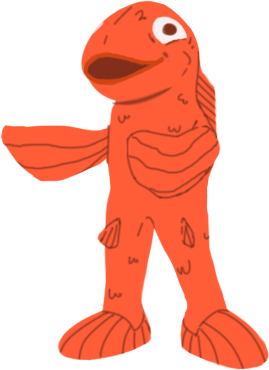
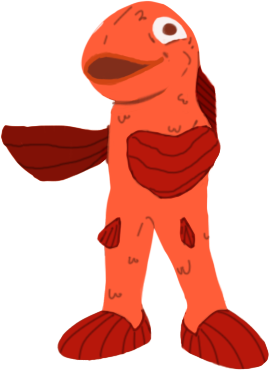
fixed modal scrolling bug in script.js, added updated styling to style.css, merged some div tags and updated with some new classes in index.html, updated mascot.png.

diff --git a/index.html b/index.html
@@ -18,7 +18,7 @@
     <!-- header/navbar -->
     <nav>
       <div class="nav-wrapper">
-        <a href="#" class="brand-logo">"Smarty Pants" Name Placeholder</a>
+        <a href="index.html" class="brand-logo center">"Smarty Pants" Name Placeholder</a>
         <ul id="nav-mobile" class="right hide-on-med-and-down">
           <li><a href="#">High Scores</a></li>
         </ul>
@@ -34,8 +34,8 @@
             <div class="card-content white-text">
               <span class="card-title">Welcome to our Trivia</span>
               <p>To play our trivia, you need to make some selections</p>
-              <button class="fact-button to-selections" id="to-selections">
-                <a class="waves-effect waves-light btn">Make my Selections</a>
+              <button class="fact-button to-selections btn waves-effect waves-light" id="to-selections">
+              Make my Selections
               </button>
             </div>
           </div>
@@ -60,12 +60,12 @@
                 class="validate"
                 required
               />
-              <p>Number of Questions</p>
+              <p class="subtext">Number of Questions</p>
               <!-- Categories drop down -->
               <select id="category">
                 <option value="0">Any Category</option>
               </select>
-              <p>Trivia Category</p>
+              <p class="subtext">Trivia Category</p>
               <!--Difficulty drop down -->
               <select id="difficulty">
                 <option value="0">Any Difficulty</option>
@@ -73,17 +73,17 @@
                 <option value="2">Medium</option>
                 <option value="3">Hard</option>
               </select>
-              <p>Trivia Difficulty</p>
+              <p class="subtext">Trivia Difficulty</p>
               <!-- Type of questions drop down -->
               <select id="question-type">
                 <option value="0">Any type of Question</option>
                 <option value="1">Multiple Choice</option>
                 <option value="2">True or False</option>
               </select>
-              <p>Type of Question</p>
+              <p class="subtext">Type of Question</p>
               <!-- start trivia button -->
-              <button id="quiz-start" class="start-button">
-                <a class="waves-effect waves-light btn">Start Trivia</a>
+              <button id="quiz-start" class="start-button waves-effect waves-light btn">
+                Start Trivia
               </button>
             </div>
           </div>
@@ -126,7 +126,7 @@
               <div id="modal1" class="modal">
               <div class="modal-content">
                 <h4>Need help?</h4>
-                <p id="helpful-hint">Here's my useful tip!(placeholder) Lorem ipsum dolor sit amet consectetur, adipisicing elit. Omnis, cumque enim. Ad corporis nobis cumque explicabo placeat sunt quibusdam? Magnam neque animi sit, laudantium numquam nostrum culpa quisquam repellendus atque.</p>
+                <p id="helpful-hint">Tip will display here!</p>
                 <img src="./assets/mascot.png" height="185px" width="134.5px">
               </div>
               <div class="modal-footer">
@@ -192,19 +192,21 @@
               </ul>
             </div>
           </div>
-          <button
-            class="btn waves-effect waves-light clear-scores-btn"
-            name="action"
-          >
-            Clear Scores
-          </button>
-          <button
-          id="play-again"
-            class="btn waves-effect waves-light play-again-btn"
-            name="action"
-          >
-            Play Again?
-          </button>
+          <div class="highscore-btn">
+            <button
+              class="btn waves-effect waves-light clear-scores-btn"
+              name="action"
+            >
+              Clear Scores
+            </button>
+            <button
+              id="play-again"
+              class="btn waves-effect waves-light play-again-btn"
+              name="action"
+            >
+              Play Again?
+            </button>
+          </div>
         </div>
       </div>
     </div>

diff --git a/style.css b/style.css
@@ -4,10 +4,10 @@
 }
 
 img {
-    padding: 0;
+    padding: 10px;
     margin: 0;
-    margin-top: -160px; 
-    margin-left: 50%;
+    margin-top: -100px; 
+    margin-left: 48%;
     position: fixed;
 }
 
@@ -15,9 +15,49 @@ h4 {
     color: black;
     padding-left: 5%;
 }
-
-p {
+/* Random help text */
+#helpful-hint {
     color: black;
     padding-left: 5%;
     padding-right: 50%;
+}
+/* Card elements */
+.card {
+    margin-top: 10vh;
+    margin-left: 25vw;
+    width: 50vw;
+    display: flex;
+    justify-content: center;
+    align-items: center;
+}
+
+p {
+    color: white;
+}
+/* Card content */
+.card-content {
+    display: flex;
+    flex-flow: column wrap;
+    justify-content: center;
+    align-items: center;
+}
+/* All buttons */
+.btn {
+    margin: 10px;
+}
+/* Clear Score and Play Again buttons */
+.highscore-btn {
+    margin-left: 17vw;
+    display: flex;
+    justify-content: center;
+    width: 100%;
+}
+
+input {
+    color: white;
+    text-align: center;
+}
+/* Dropdown subtext */
+.subtext {
+    color: lightgrey;
 }

diff --git a/script.js b/script.js
@@ -50,6 +50,7 @@ $(document).ready(function(){
     $('select').formSelect();
 })
 
+//Modal -Ben
 $(document).ready(function(){
     function openModal() {
         $('.modal').modal();
@@ -63,7 +64,6 @@ $(document).ready(function(){
     });
     }
     function askMore() {
-        $('.modal').modal();
         $('.modal').modal('close')
         openModal()
     }
@@ -249,7 +249,7 @@ function shuffleArray(array) {
       });
   
   
-  var categoryUrl = 'https://opentdb.com/api_category.php'  
+  var categoryUrl = 'https://opentdb1.com/api_category.php'  
   var categories  = []
 
   function init () {
